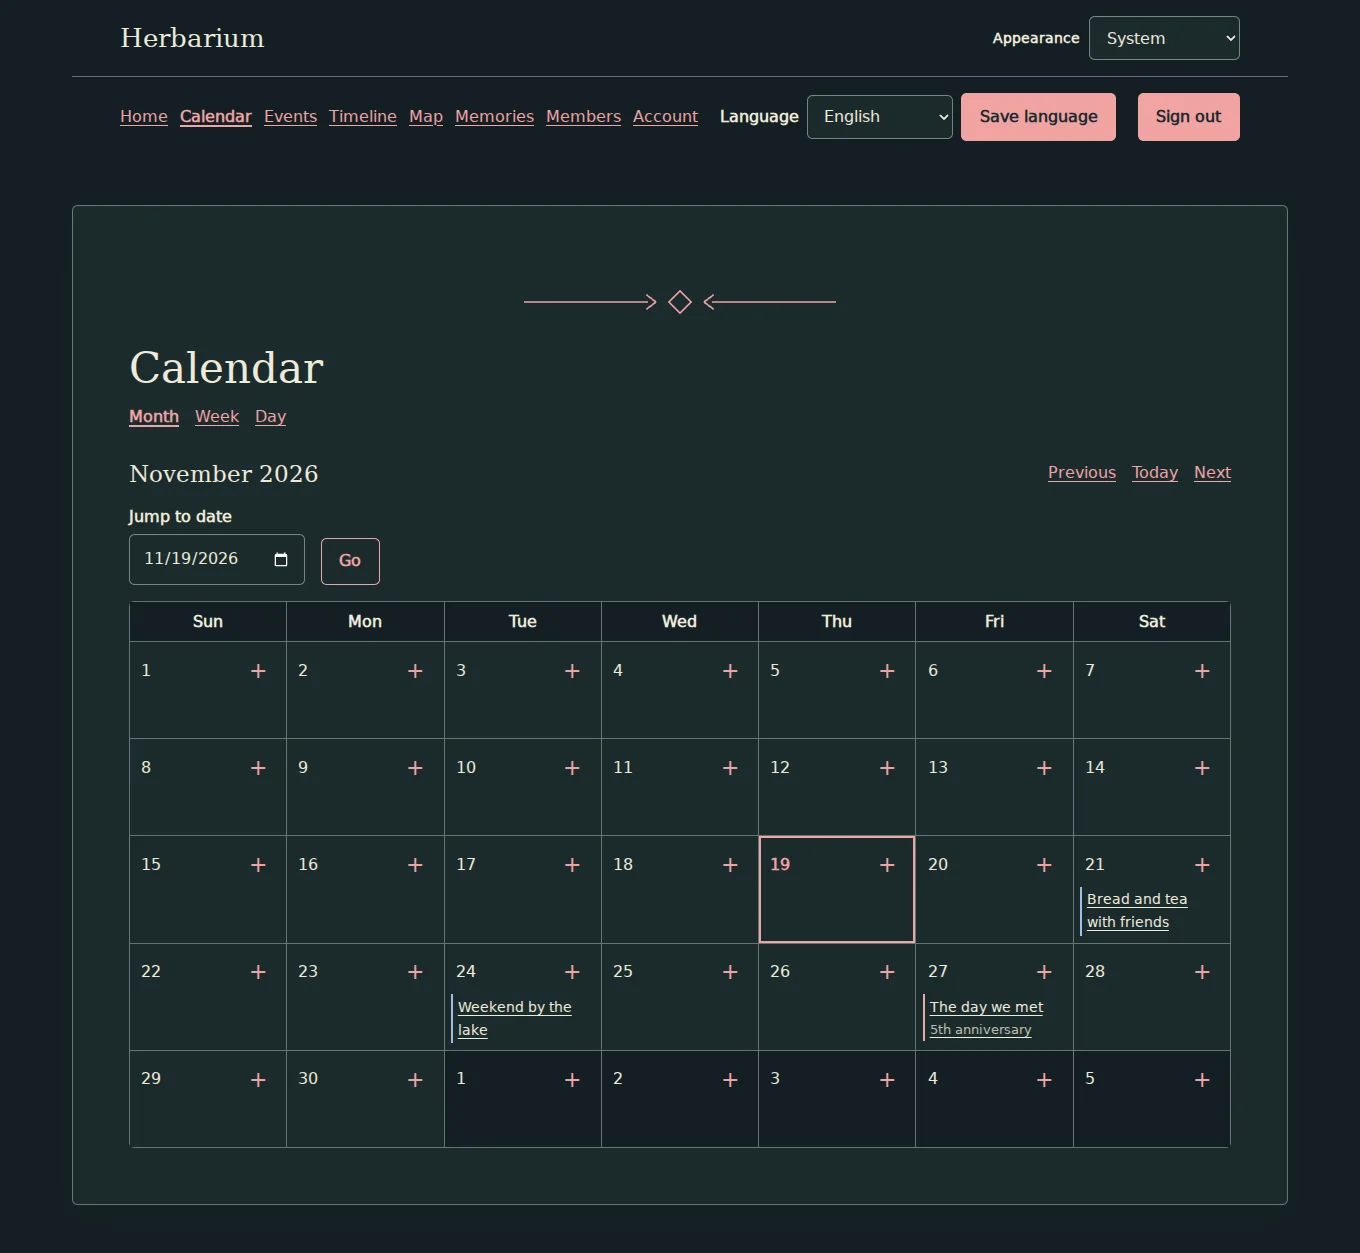
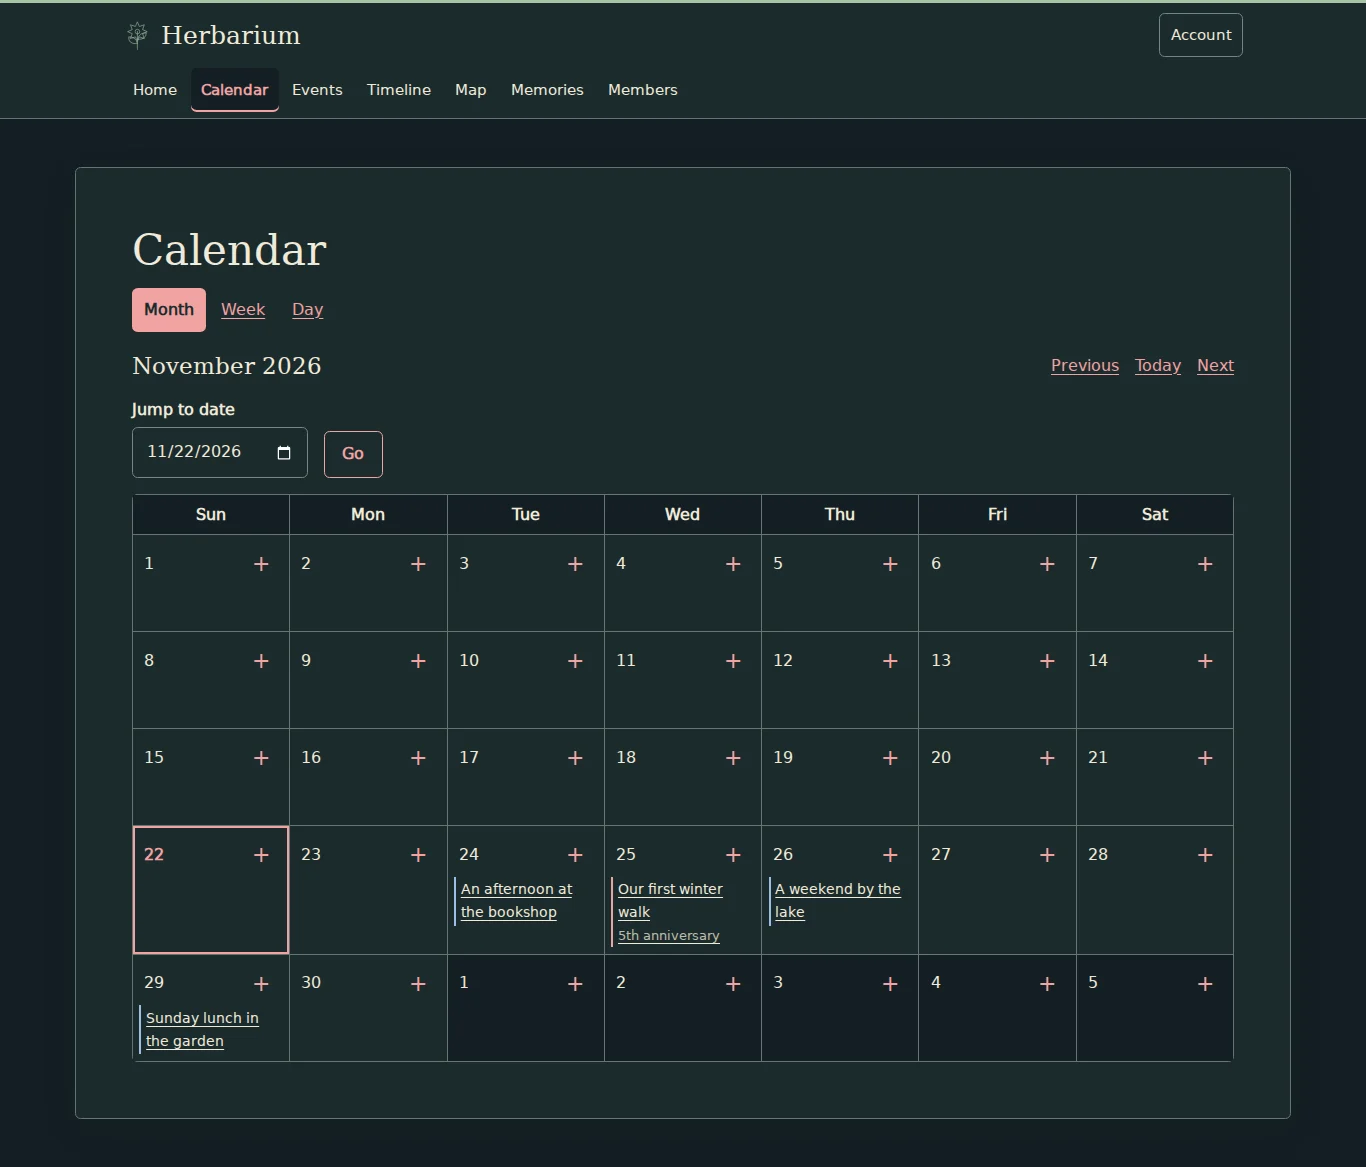
Refresh the README walkthrough and screenshots

diff --git a/docs/architecture.md b/docs/architecture.md
@@ -43,7 +43,7 @@ The deployment remains one Node application and one data volume. Runtime assets 
 
 `src/lib/design.css` defines semantic color tokens, typography, controls and the accessibility baseline. Light linen and dark Kupalle themes follow the operating system. The appearance selector is available under Account preferences and on public sign-in screens. It stores an optional device preference in localStorage, separate from the account language. A small same-origin script applies the allowlisted theme before first paint, without inline script or a CSP exception. With JavaScript disabled, system appearance and server forms still work.
 
-DejaVu Serif and Sans are bundled as WOFF2 build assets and cover Belarusian і and ў. The lossless conversion preserves the original glyphs and reduces the two fonts from 1,140,380 to 405,484 bytes before HTTP compression. The redistribution license is served from `/fonts/LICENSE.txt`. Shared components provide buttons, labelled inputs (`Field`), textareas, selects, precision-aware native date fields, modal dialogs, persistent dismissible status messages and herbarium cards. Decorative inline SVG ornaments are hidden from assistive technology. The app shell includes a skip link, current-page navigation and responsive form layouts. Account settings and sign-out live on the Account page.
+DejaVu Serif and Sans are bundled as WOFF2 build assets and cover Belarusian і and ў. The lossless conversion preserves the original glyphs and reduces the two fonts from 1,140,380 to 405,484 bytes before HTTP compression. The redistribution license is served from `/fonts/LICENSE.txt`. Shared components provide buttons, labelled inputs (`Field`), textareas, selects, precision-aware native date fields, modal dialogs, persistent dismissible status messages and herbarium cards. Decorative inline SVG ornaments are hidden from assistive technology. The app shell includes a skip link, current-page navigation and responsive form layouts. The Account link opens an authenticated settings dialog over the current route. Direct navigation and browsers without JavaScript use the Account page.
 
 DatePicker submits the selected precision separately from its date value (day: YYYY-MM-DD, month: YYYY-MM, year: YYYY). Changing precision clears the previous value. Feature actions must validate and normalize these fields on the server before storing them; this visual component does not define event storage.
 
@@ -59,7 +59,7 @@ The public web manifest supplies a standalone launch URL, botanical icons and a 
 
 `src/lib/server/events/events.ts` provides validated create/update/delete operations, author-preserving plan completion and paginated list queries. Lists filter by the local start year and kind and return 30 records per page, ordered by local start date and random identifier. SQL is built through Drizzle with bound parameters. Authenticated routes under `/events` provide a paginated list, kind/year filters, a create form, detail pages and edit forms. Every load and action checks its session independently of the hook. Members can edit all events; the author stays unchanged. Deleting an event requires rate-limited password confirmation and writes a content-free audit event in the same transaction.
 
-Event forms accept bounded text dates in the displayed formats, so selecting a different precision or timed mode works without client JavaScript. Failed submissions return known, bounded field values and field identifiers; password values are never returned. Kind, category and date/clock options are fully translated in all three locales. Detail pages render the server-sanitized notes HTML as the only user-content `{@html}` exception.
+Event forms use native date, month and local date-time pickers when enhanced. Without JavaScript they accept bounded text dates in the displayed formats, so selecting a different precision or timed mode works without client JavaScript. Failed submissions return known, bounded field values and field identifiers; password values are never returned. Kind, category and date/clock options are fully translated in all three locales. Detail pages render the server-sanitized notes HTML as the only user-content `{@html}` exception.
 
 ## Occasions and recurrence
 
@@ -115,7 +115,7 @@ The historical lookup seeks by month and day, then walks the event date and ID i
 
 ## Portable archives
 
-Any signed-in member can confirm their password under **Account → Export shared data**. A POST streams a ZIP containing a versioned `herbarium.json` manifest and all cleaned originals. Manifest version 2 supports undated plans, and restore accepts existing version 1 manifests. The archive contains event coordinates and shared attribution, album memberships and event reminder offsets. The database snapshot is taken before streaming begins, and any original deleted during the download remains readable until the stream closes. The encrypted volume retains operational records and private account settings. An audit row records each export started.
+Any signed-in member can confirm their password under **Account → Export shared data**. A POST streams a ZIP containing a versioned `herbarium.json` manifest and all cleaned originals. Manifest version 3 includes reusable places and ordered event stops. Restore also accepts versions 1 and 2. The archive contains event coordinates and shared attribution, album memberships and event reminder offsets. The database snapshot is taken before streaming begins, and any original deleted during the download remains readable until the stream closes. The encrypted volume retains operational records and private account settings. An audit row records each export started.
 
 An offline restore command validates the manifest, ZIP entry names, sizes, checksums and relationships. Media goes through the existing memory-only cleaning and encryption pipeline under the destination key. The CLI rebuilds derivatives and commits rows together after every file succeeds. Historical authors keep their display names and record IDs as inactive profiles. The destination owner creates new invitations for members who need access.
 

diff --git a/docs/development.md b/docs/development.md
@@ -73,7 +73,7 @@ Unit tests cover date precision, DST gaps/folds, validation, sanitized notes, en
 
 Select **New plan** to save a title with **No date yet**, or choose this date type while editing a plan. Find it through the Home link or open **Filters** in Events. On the detail page, use **Set date** or **Change date** to update its schedule and **Add place** or **Change place** to update its location.
 
-For an occasion, use day precision and open **For occasions** to set the repeat schedule. Select **Yearly** for anniversaries and birthdays to show the anniversary number or age. Custom schedules repeat by a chosen number of days, weeks, months or years. The occasion detail shows the localized schedule and upcoming dates.
+For an occasion, use day precision and open **For occasions** to set the repeat schedule. Anniversaries and birthdays repeat yearly and show the anniversary number or age. For a general occasion, set **Repeat every** and select days, weeks, months or years. The occasion detail shows the localized schedule and upcoming dates.
 
 ## Memories
 
@@ -85,7 +85,7 @@ The media integration tests use synthetic JPEG, PNG, HEIC, MP4 and MOV files. Th
 
 ## Calendar
 
-Open **Calendar** to switch between month, week and day views. Expand **Jump to date** to enter a specific day. On narrow screens, the month and week are displayed as stacked days. Use the plus button on a date to prefill a new event. Past dates default to moments and today or future dates default to plans. The kind can still be changed on the event form.
+Open **Calendar** to switch between month, week and day views. Use **Jump to date** to choose a specific day. On narrow screens, the month and week are displayed as stacked days. Use the plus button on a date to prefill a new event. Past dates default to moments and today or future dates default to plans. The kind can still be changed on the event form.
 
 ## Reminders
 
@@ -101,7 +101,7 @@ Tests cover cursor boundaries with events on the same date, deleted anchors, com
 
 ## Maps
 
-Open **Map** to filter pinned events by kind, local start year and category. The list beside the map links to the same events and works without JavaScript. On a create or edit form, expand **Location on the map** to search for a place, paste a latitude and longitude pair, or set and drag a pin. The two coordinate fields also work without JavaScript. On an existing event, attach a photo to review its GPS suggestion before saving the point.
+Open **Map** to filter pinned events by kind, local start year and category. Saved places can be added, edited and deleted from the map. Events can use a saved place or a new location for each stop. The list beside the map links to the same events and works without JavaScript. On a create or edit form, expand **Location on the map** to search for a place, paste a latitude and longitude pair, or set and drag a pin. The two coordinate fields also work without JavaScript. On an existing event, attach a photo to review its GPS suggestion before saving the point.
 
 Playwright installs a small [Belarus tileset fixture](../tests/fixtures/maps/README.md) and blocks outbound HTTP requests during the map flow. It checks authenticated ranges, glyph and sprite delivery, pin editing, event previews and keyboard access to the list. See the [deployment guide](deployment.md#offline-maps) to install a larger map for development.
 

diff --git a/README.md b/README.md
@@ -7,13 +7,23 @@ Herbarium is a self-hosted shared calendar and chronicle for a couple, a family 
 ## What you can do
 
 - Record moments with exact or approximate dates, plan upcoming events and mark them complete when they happen.
-- Track birthdays and anniversaries, browse the calendar by month, week or day, and opt in to email reminders.
-- Upload photos and videos, organize albums, or import a folder and group files by capture date.
-- Browse a timeline and pin events on a self-hosted map. Choose whether to use a photo’s suggested location.
+- Choose a day, month, year or time when dating an event. Birthdays and anniversaries repeat yearly. For another occasion, choose an interval such as every two weeks. Browse the calendar by month, week or day, and opt in to reminder emails.
+- Browse photos and videos by event or album. Import a folder to group files by capture date. Open a preview for a closer look, then choose **Open details** for file information.
+- Keep a shared address book on the self-hosted map. Save places like home or a favorite campsite, then add several stops to a trip. Each event keeps its own copy of those places.
 - Invite people into a shared instance and use Herbarium in Belarusian, Russian or English. Install it from a compatible browser to open it from your home screen.
 - Keep encrypted backups and export shared data with the original media for portable restores.
 
 ![Herbarium calendar in the dark Kupalle theme with sample plans and an anniversary](docs/screenshots/calendar.webp)
+
+## Places and preferences
+
+In **Map**, choose **Save a new place**, enter a name, and search, drop a pin or enter coordinates. Select a saved place by name to update it. In the event editor, use **Choose a saved place** or enter a new one, then **Add another place** for the next stop.
+
+![Map showing saved places and a weekend trip with two stops](docs/screenshots/map.webp)
+
+Open **Account** from any section to change language, appearance, reminders or security settings. Close the popup to return to the same view.
+
+![Account preferences open over the calendar](docs/screenshots/account.webp)
 
 ## Deploy
 
